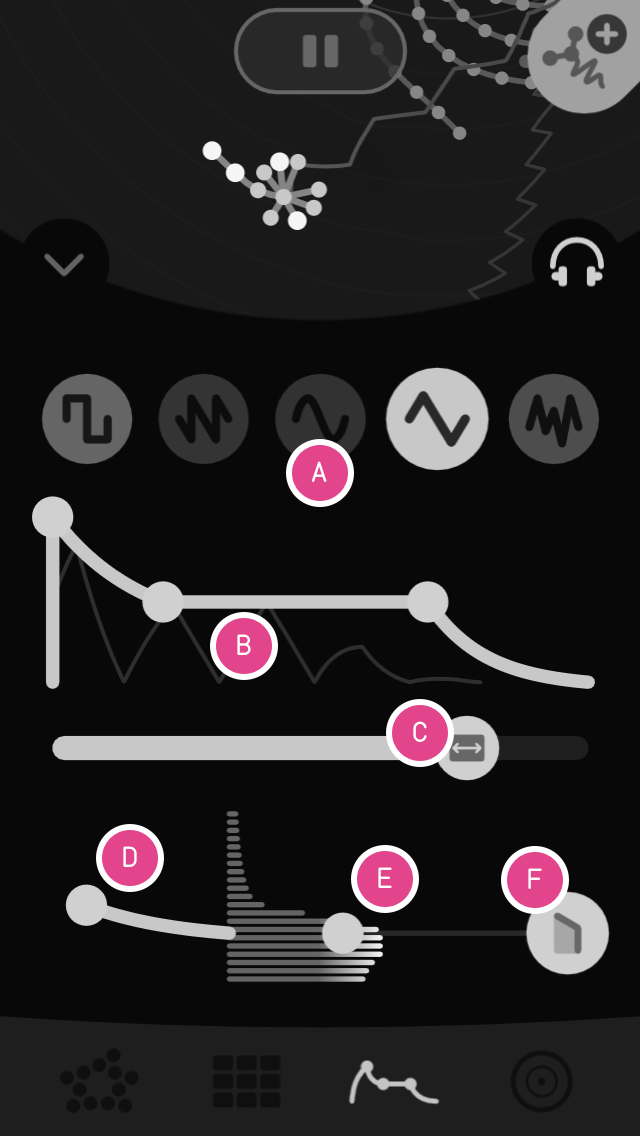
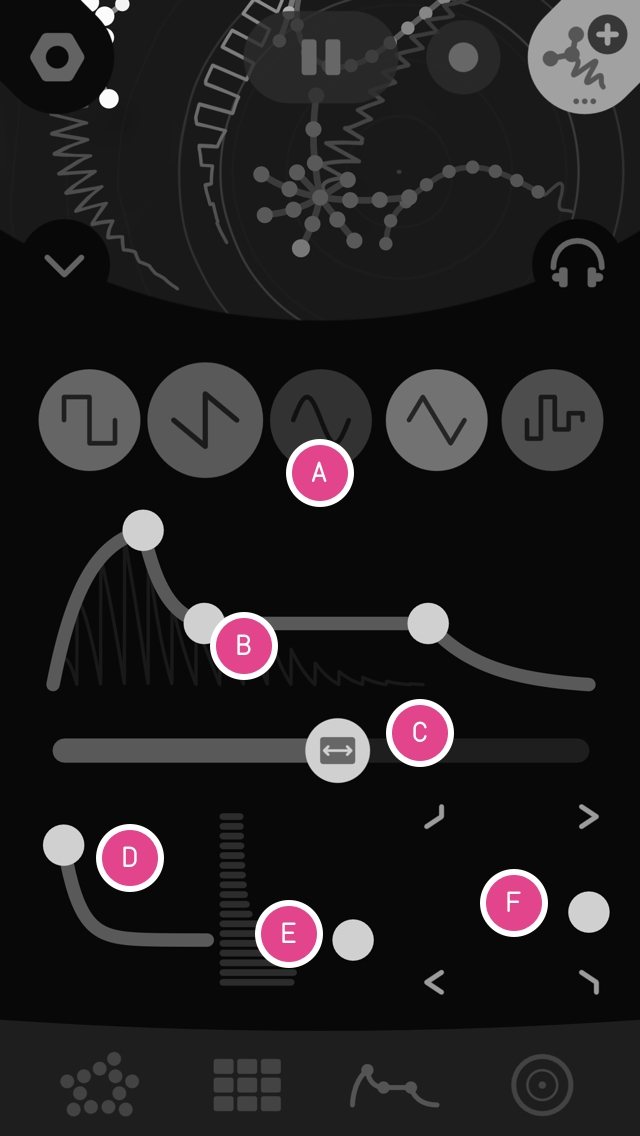
Updating Guide and overall site

diff --git a/css/style.css b/css/style.css
@@ -140,12 +140,13 @@ table {
   min-width:200px;
 }
 th {
-  font-size:0.75em;
+  font-size:0.85em;
   padding:0 5px 0 10px;
   text-align:left;
+  color:#777;
 }
 td {
-  font-size:0.65em;
+  font-size:0.85em;
   line-height:1.5em;
   padding:5px 10px;
   border:3px solid #333;
@@ -415,7 +416,7 @@ margin:0;
 }
 
 .featurelist ul li {
-  font-size:0.9em !important;
+  /*font-size:0.9em !important;*/
 }
 
 .pd_logo, .ci_logo {

diff --git a/_includes/footer.html b/_includes/footer.html
@@ -32,9 +32,7 @@ s.setAttribute('data-timestamp', +new Date());
   </ul>
  -->
   <center>
-    <a href="http://okaynokay.xyz">
     <img class="oknk-logo" src="{{site.baseurl}}/images/oknk-logo.svg" />
-    </a>
   </center>
 
   &copy; {{site.copyright}} {{'now' | date: '%Y' }} - ALL RIGHTS RESERVED

diff --git a/guide.md b/guide.md
@@ -141,7 +141,8 @@ midiimp:
 
 <style>
 h3 {
-  color: #D1518A;
+  color: #fff;
+  font-weight:bold;
 }
 .toc {
   padding:20px;
@@ -221,11 +222,19 @@ Questions? [Contact us](/seaquence/contact).
   - Download
   - Next / Prev
   - Exit
+- [Settings](#settings)
+  - Accessing the Settings Panel
+  - Show/Hide Sequencer Notes
+  - Set number of Active Voices
+  - Play in Background
 - [MIDI](#midi)
-  - Midi In
-  - Midi Out
-  - Enable / Disable
-  - Control Change (CC) Messages
+  - Enable / Disable MIDI
+  - Enable / Disable Audio Engine
+  - MIDI Out
+  - MIDI In
+  - Enable/Disable MIDI on a oice
+  - MIDI Implementation
+  - MIDI Control Change (CC) Messages
 
 </section>
 
@@ -253,6 +262,11 @@ Where you find controls that affect the entire mix. Tonality, Tempo/BPM, Delay F
 ### F. SAVE, SHARE & BROWSE
 Save your sessions, share your sessions by creating a link, and explore online sessions that people have shared.
 
+### G. RECORD
+Record audio or video. Swipe the icon to change between the modes your device supports. When the circle icon is visible, tapping will record audio. When the camera icon is active, tapping it will record the screen as a video. Note: Apple Reply Kit (for screen recording) records the audio track in mono.
+
+### H. SETTINGS
+Find app settings here.
 
 <a name="editor"></a>
 
@@ -352,13 +366,12 @@ The filter attack time and cutoff. This is an X/Y handle, left to right controls
 The second handle of the filter is also an X/Y control, left to right is resonance, or "Q", and up and down is the cutoff frequency,
 
 ### F. FILTER MODE
-TAP to toggle through the four filter modes.
+Drag in this control to morph between four filter modes.
 
-  1. Low Pass
-  2. High Pass
-  3. Band Pass
-  4. Notch (Band Reject)
-
+  - Top Left: High Pass
+  - Top Right: Notch (Band Reject)
+  - Bottom Right: Low Pass
+  - Bottom Left: Band Pass
 
 <a name="globals"></a>
 
@@ -375,7 +388,7 @@ This controls tonality of the entire sessions, transposing all creatures scales 
 Overall app volume.
 
 ### C. TEMPO
-Displayed as Beats Per Minute (BPM).
+Displayed as Beats Per Minute (BPM). Tap this control to set BPM via tap-tempo.
 
 ### D. VOICE FX-SEND
 If you access this panel when a creature is selected, this sets the amount the voice will be heard in the delay effect.
@@ -448,37 +461,81 @@ Next page. When navigating, you'll get a previous page icon on the right to go b
 Exit the galaxy view.
 
 
+<a name="settings"></a>
+
+# SETTINGS
+
+The settings panel gives you access to app settings like MIDI and Background Audio.
+
+![]({{site.baseurl}}/images/guide/world-open-settings.png)<br />
+Tap the settings gear icon on the top left to open the settings panel.
+
+![]({{site.baseurl}}/images/guide/settings-seqnotes.png)<br />
+Show or Hide note names in the sequencer.
+
+![]({{site.baseurl}}/images/guide/settings-activevoices.png)<br />
+Set the number of simultaneous active voics in the mixing dish. <br /> Only the closest are heard.
+
+![]({{site.baseurl}}/images/guide/settings-playinbg.png)
+Keeping playing audio (and MIDI) from seaquence when the app is in background.
+
+
 <a name="midi"></a>
 
 # MIDI
+
+Find the MIDI settings in the [settings](#settings) panel.
+
+![]({{site.baseurl}}/images/guide/settings-midi.png)
+
+When enabled, you have an option to enable.disable the synthesis engine -- this saves
+a lot of CPU cycles.
+
+![]({{site.baseurl}}/images/guide/settings-audioengine.png)
+
+MIDI send/receive per MIDI device are found in the [settings](#settings) panel.
+
+![]({{site.baseurl}}/images/guide/guide-midout.png)<br />
+Set MIDI latency, and if Seaquence should set Notes, Clock, and/or Midi Control Change (CC) Messages for a specific device.
+
+![]({{site.baseurl}}/images/guide/guide-midiin.png)<br />
+Set if Seaquence should receive Notes, Clock, and/or Midi Control Change (CC) for a specific device.
+
+## ENABLING MIDI ON A VOICE
 
 Seaquence sends and receive notes and control-change MIDI messages to/from any creature on any MIDI channel, turning Seaquence into a dynamic multi-voice sequencer that can be used with external gear and other apps.
 
 ![]({{site.baseurl}}/images/guide/guide-midi.png)
 
 ### A. MIDI IN CHANNEL
-1 thru 16.
+1 thru 16
 
 ### B MIDI OUT CHANNEL
-1 thru 16.
+1 thru 16
 
-### ENABLE / DISABLE MIDI
-
-MIDI send/receive and clock-sync can be enabled in the Seaquence section of the iOS Settings app.
-
-![]({{site.baseurl}}/images/guide/guide-midi-prefs.png)
-
-You can also set various methods of MIDI CLOCK sync.
-
-  1. Off
-  2. Send (Master)
-  3. Sync to External (Slave)
-
-<!--
-
-### MIDI CONTROL CHANGE (CC) MESSAGES
 
 {::options parse_block_html="true" /}
+
+### MIDI IMPLEMENTATION
+
+<table cellspacing="0" cellpadding="0"><tbody>
+  <tr class="seaqfont">
+    <th>Function</th>
+    <th>Out</th>
+    <th>In</th>
+    <th style=";min-width:200px;">Remarks</th>
+  </tr>
+{% for midi in page.midiimp %}
+  <tr>
+      <td>{{ midi[1][0] }}</td>
+      <td>{{ midi[1][1] }}</td>
+      <td>{{ midi[1][2] }}</td>
+      <td>{{ midi[1][3] }}</td>
+   </tr>
+{% endfor %}
+</tbody></table>
+
+### MIDI CONTROL CHANGE (CC) MESSAGES
 
 <table cellspacing="0" cellpadding="0"><tbody>
   <tr class="seaqfont">
@@ -501,26 +558,7 @@ You can also set various methods of MIDI CLOCK sync.
 {% endfor %}
 </tbody></table>
 
-### MIDI IMPLEMENTATION
 
-<table cellspacing="0" cellpadding="0"><tbody>
-  <tr class="seaqfont">
-    <th>Function</th>
-    <th>Out</th>
-    <th>In</th>
-    <th style=";min-width:200px;">Remarks</th>
-  </tr>
-{% for midi in page.midiimp %}
-  <tr>
-      <td>{{ midi[1][0] }}</td>
-      <td>{{ midi[1][1] }}</td>
-      <td>{{ midi[1][2] }}</td>
-      <td>{{ midi[1][3] }}</td>
-   </tr>
-{% endfor %}
-</tbody></table>
-
--->
 
 
 
@@ -528,5 +566,5 @@ You can also set various methods of MIDI CLOCK sync.
 
 You made it through the Seaquence Guide! We hope you enjoy many hours making and sharing your own music and sounds, as well as exploring what other people create.
 
-This guide will be updated with new features as they become available.
+This guide is updated with new features as they become available.
 

diff --git a/_includes/features.md b/_includes/features.md
@@ -1,34 +1,42 @@
 
 <div class="featurelist">
 
-  - Synth engine with up to 8 simultaneous voices
-  - Up to 5 note polyphony per voice
-  - Up to 64 unique voices in a composition
+  - Polyphonic synth engine
   - Dynamic spatial mixer and stereo-panning engine
-  - A true multitouch experience, up to 11 simultaneous touch points supported.
-  - Unique swimming physics and swim behaviors — swim patterns are based on synth voice parameters
-  - Precision, sample-based clock and sequencing engine, 1 to 360 BPM
+  - Up to 5 note polyphony per voice
+  - Up to 8 voices can be heard simultaneously (user settable)
+  - Up to 64 unique voices in a composition (only the closest voices are heard)
+  - A true multitouch experience, up to 11 simultaneous touch points supported
   - Intuitive visual multitouch voice editor
+  - Unique swimming physics and swim behaviors — swim patterns are based on synth and sequencer parameters per-voice
   - 16x16 multitouch step-sequencer matrix
-  - Chromatic scale editor w/Octave controls
-  - Amplitude envelope + length (ADSR+L) with curves and "hold"
+  - Radial chromatic scale editor with octave
+  - Amplitude envelope generator + length (ADSR+L) with curves and hold
+  - Precision, sample-based clock and sequencing engine
+  - Variable tempo, supporting 1 to 360 BPM with tap-tempo.
+  - Global session transpose
   - 5 waveform shapes: Square, Saw, Tri, Sin, Noise
+  - Save your own session presets
+  - 30+ included session presets
   - Social sharing features - post and share links to sessions
-  - Parent links are maintained — trace back the history of a composition, see who remixed a session
+  - Session links are maintained — trace back the history of a composition, see who remixed a session
+  - Audio and Video recording and export using Apple ReplayKit. Share performances!
 
-## unlock all features for {{ site.app.price }}
+## unlock all features of Seaquence for {{ site.app.price }}
 
-  - State-variable filter with hi-pass, band-pass, lo-pass, and notch modes
-  - Filter attack envelope with resonance Q and curve editor
+  - Per-voice state-variable filter with morphable hi-pass, band-pass, lo-pass, and notch modes
+  - Filter attack envelope generator with resonance (Q) and curve
   - Swing/Shuffle
-  - Note step editor: 1/1 to 1/64, including triplets
-  - Global transpose
+  - Step length subdivision: 1/1 to 1/64, including triplets
   - Portamento/Glide with curve editor
-  - Additional voice modes in addition to Poly, including Monophonic and Unison
-  - Delay effect on the master bus with feedback and individual voice fx-send
+  - Additional monophonic voice modes: Sub-Oscillator tuned to a 5th and Detuned Unison
+  - Delay effect on the master channel with feedback and individual voice fx-send
   - MIDI notes i/o per voice
   - MIDI cc i/o per voice
   - MIDI clock sync
+  - Assignable MIDI notes/cc/clock in/out per MIDI device
+  - User-adjustable MIDI Latency
+  - Optionally enable/disable Audio engine when using MIDI
 
 </div>
 
@@ -38,7 +46,7 @@ You purchase directly supports our two-person studio<br/> release updates with n
 
 <br /><br />
 
-In addition, 10% of all profits go towards supporting our community
+Additionally, 10% of all profits go towards supporting our community
 <br />
 at <a href="http://grayarea.org/">Gray Area Org</a>, a non-profit arts organization in San Francisco.
 

diff --git a/index.md b/index.md
@@ -33,7 +33,7 @@ creating a layered and non-linear composition.</h3><br />
 
 <img src="{{site.baseurl}}/images/iphone5s_blue.png" style="max-width:400px;"/><br />
 <h3>Seaquence's interface allows you to create a range of musical <br/>
-  and sonic characteristics, ranging from ambient drone<br/> to intricately layered rhythms and transients.</h3><br />
+  and sonic characteristics, ranging from ambient drone<br/> to intricately layered rhythms.</h3><br />
 
 <img src="{{site.baseurl}}/images/iphone5s_blue_4.png" style="max-width:400px;"/><br />
 <h3>Save your sessions. Post and share them.</h3><br />
@@ -55,27 +55,25 @@ creating a layered and non-linear composition.</h3><br />
 
 {%include features.md %}
 
-<img src="{{site.baseurl}}/images/screenshot_iPhone5__persp.png" />
-
-<section>
-## about seaquence
-
-{%include history.md %}
-
 <br />
+<br />
+
+<!-- <section>
+## about seaquence
+{%include history.md %}
+</section> -->
 
 <div class="download">
   <a href="{{site.app.storeurl}}"><img style="height:1em;margin-right:0.5em;" src="{{site.baseurl}}/images/apple.svg">Download App</a>
 </div>
-</section>
 
-<br /><br/>
+<!-- <br /><br/> -->
 
-<section>
+<!-- <section>
 ### made with
 
 {% include madewith.md %}
-</section>
+</section> -->
 
 <section>
 

diff --git a/press.md b/press.md
@@ -25,10 +25,10 @@ class: c_bg3
 <div>
 ## contact
   <p style="text-align:center;">
-    Send us a message or ask a question.
+    Send a message or ask a question.
   </p>
   <div class="download">
-  <a href="{{site.baseurl}}/contact/" >CONTACT US</a>
+  <a href="{{site.baseurl}}/contact/" >CONTACT&nbsp;US</a>
   </div>
 </div>
 
